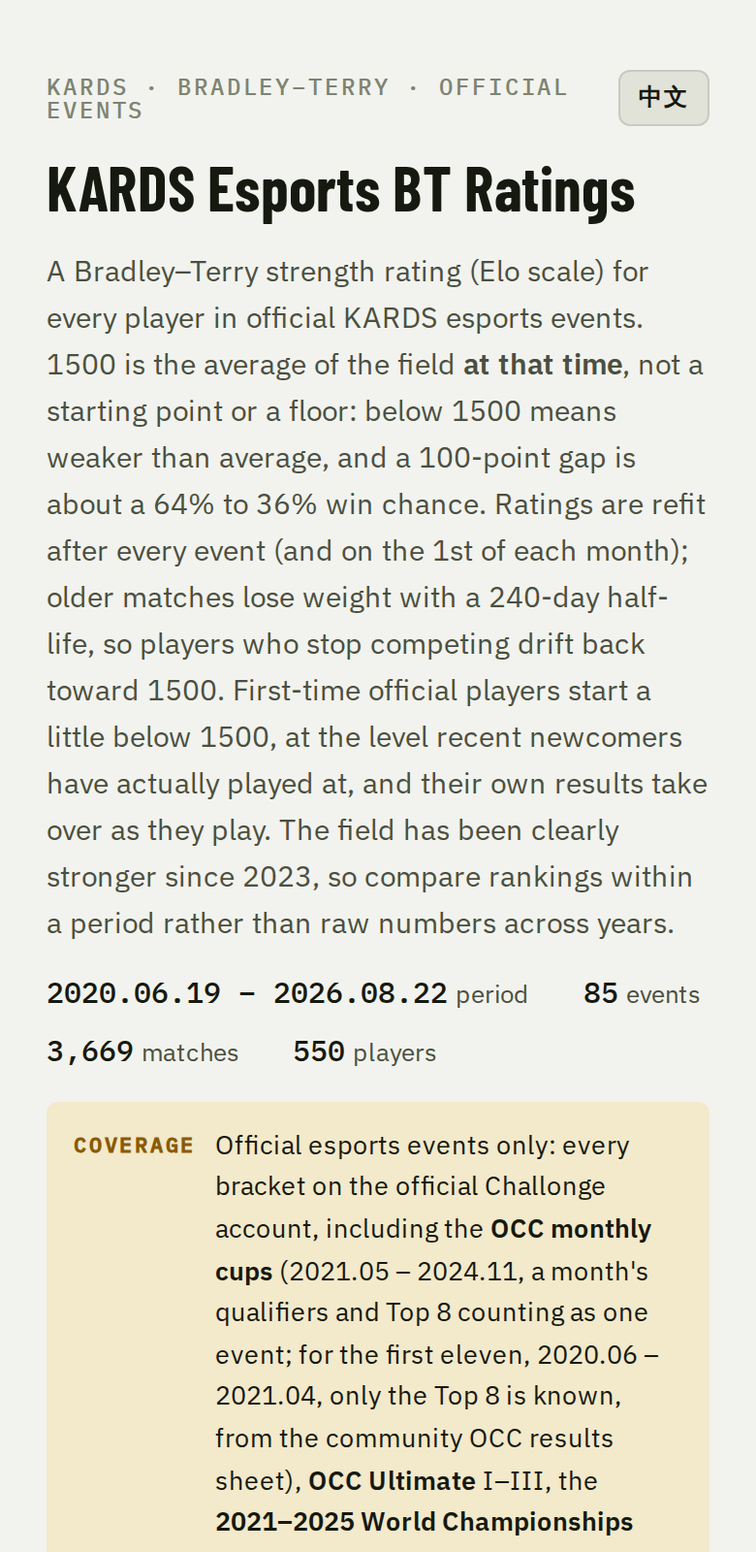
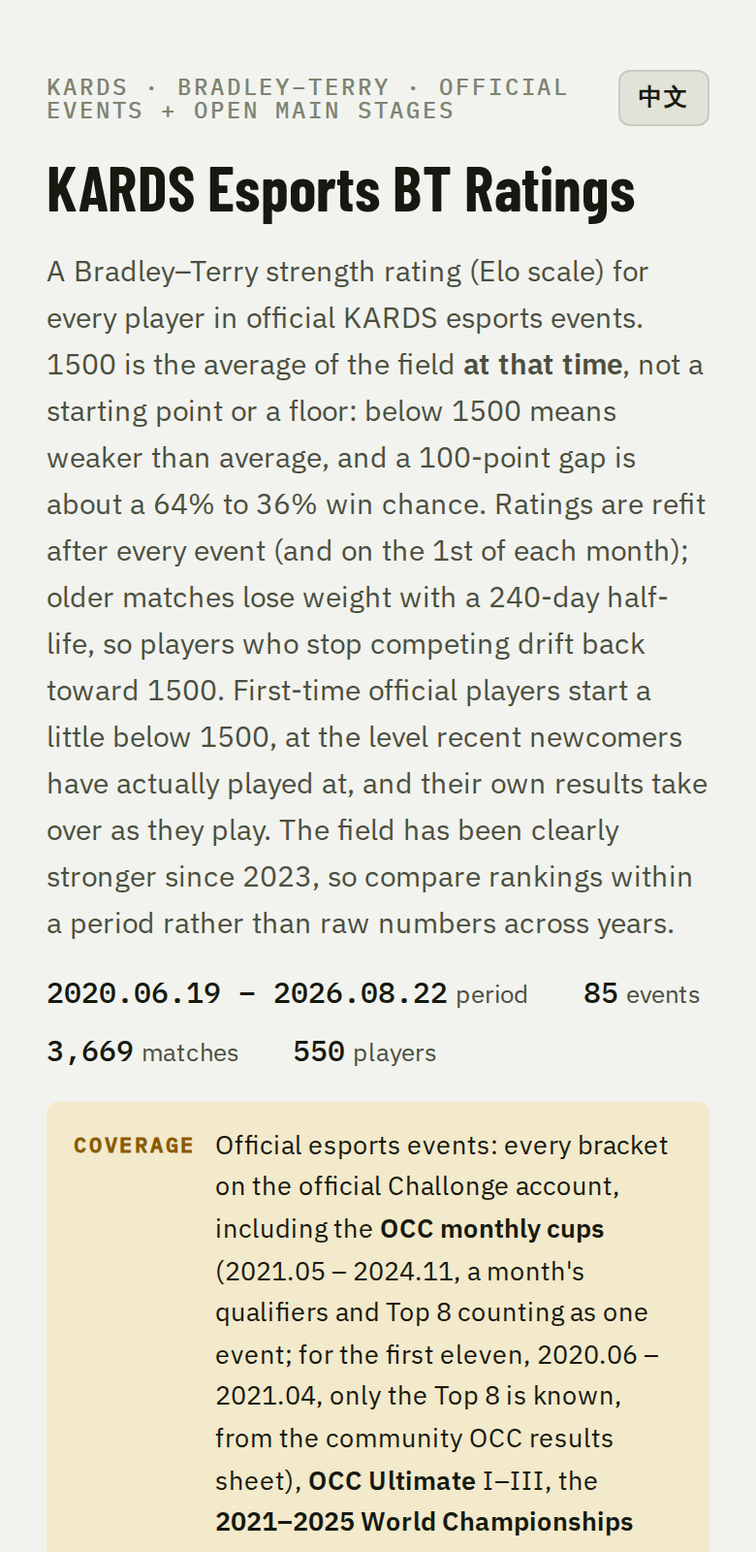
Page and README text for Open main stages and the peak-board invite shrink
Claude-Session: https://claude.ai/code/session_0148CokgNGp4Mn32DzLZFiBU

Changed region(s): [[0.2769, 0.7188, 0.8923, 0.8438], [0.3692, 0.0625, 0.5846, 0.0938], [0.2462, 0.0625, 0.3385, 0.0938]]

diff --git a/kards_bt/site/index.html b/kards_bt/site/index.html
@@ -166,8 +166,8 @@ td.vs.hot { color: var(--up); font-weight: 600; } td.vs.cold { color: var(--down
     <p class="lede" data-lang="en">A Bradley–Terry strength rating (Elo scale) for every player in official KARDS esports events. 1500 is the average of the field <b>at that time</b>, not a starting point or a floor: below 1500 means weaker than average, and a 100-point gap is about a 64% to 36% win chance. Ratings are refit after every event (and on the 1st of each month); older matches lose weight with a 240-day half-life, so players who stop competing drift back toward 1500. First-time official players start a little below 1500, at the level recent newcomers have actually played at, and their own results take over as they play. The field has been clearly stronger since 2023, so compare rankings within a period rather than raw numbers across years.</p>
     <div class="facts" id="facts"></div>
     <div class="notice"><span class="tag" data-t="scope"></span>
-      <p data-lang="zh">只计<b>官方电竞赛事</b>：Challonge 上官方账号的全部对阵表，包括<b>OCC 月赛</b>（2021.05 – 2024.11，同月的资格赛和 Top 8 算一站；2020.06 – 2021.04 的前 11 届只有 Top 8，来自社区整理的 OCC 战绩表）、<b>OCC Ultimate</b> I–III、<b>2021–2025 世界赛</b>（2021、2022 年在 start.gg，2024 年瑞士轮在 Battlefy）、<b>2025 年四个扩展赛</b>和 <b>2026 年四季赛</b>；2021–2023 世界赛前 4 名线下总决赛按官方新闻补录。<b>KARDS Open 公开赛</b>没有报名门槛、不在电竞计划内，不计入。弃权、缺席、DQ 后被录入的结果整场作废。</p>
-      <p data-lang="en">Official esports events only: every bracket on the official Challonge account, including the <b>OCC monthly cups</b> (2021.05 – 2024.11, a month's qualifiers and Top 8 counting as one event; for the first eleven, 2020.06 – 2021.04, only the Top 8 is known, from the community OCC results sheet), <b>OCC Ultimate</b> I–III, the <b>2021–2025 World Championships</b> (2021 and 2022 on start.gg, the 2024 Swiss stage on Battlefy), the <b>four 2025 expansion tournaments</b> and the <b>2026 seasonal tournaments</b>. The 2021–2023 World Championship LAN finals are entered from official news. The <b>KARDS Open</b> series has no entry bar and is outside the esports programme, so it is not counted. Forfeits, no-shows and results entered after a DQ are voided.</p>
+      <p data-lang="zh">计入<b>官方电竞赛事</b>：Challonge 上官方账号的全部对阵表，包括<b>OCC 月赛</b>（2021.05 – 2024.11，同月的资格赛和 Top 8 算一站；2020.06 – 2021.04 的前 11 届只有 Top 8，来自社区整理的 OCC 战绩表）、<b>OCC Ultimate</b> I–III、<b>2021–2025 世界赛</b>（2021、2022 年在 start.gg，2024 年瑞士轮在 Battlefy）、<b>2025 年四个扩展赛</b>和 <b>2026 年四季赛</b>；2021–2023 世界赛前 4 名线下总决赛按官方新闻补录。<b>KARDS Open 公开赛</b>（2020–2023，#1 – XVI）没有报名门槛，它的瑞士轮和资格赛不计入；但 Open 的<b>正赛阶段</b>（16 强 / 8 强 / 淘汰赛，共 214 场）是打赢了预选的选手之间的比赛，按官方赛事同样计入。弃权、缺席、DQ 后被录入的结果整场作废。</p>
+      <p data-lang="en">Official esports events: every bracket on the official Challonge account, including the <b>OCC monthly cups</b> (2021.05 – 2024.11, a month's qualifiers and Top 8 counting as one event; for the first eleven, 2020.06 – 2021.04, only the Top 8 is known, from the community OCC results sheet), <b>OCC Ultimate</b> I–III, the <b>2021–2025 World Championships</b> (2021 and 2022 on start.gg, the 2024 Swiss stage on Battlefy), the <b>four 2025 expansion tournaments</b> and the <b>2026 seasonal tournaments</b>. The 2021–2023 World Championship LAN finals are entered from official news. The <b>KARDS Open</b> series (2020–2023, #1 – XVI) has no entry bar, so its Swiss and qualifier rounds are not counted; its <b>main stages</b> (Top 16 / Top 8 / playoffs, 214 matches) are between players who came through them and count like official events. Forfeits, no-shows and results entered after a DQ are voided.</p>
     </div>
   </header>
 
@@ -238,15 +238,15 @@ td.vs.hot { color: var(--up); font-weight: 600; } td.vs.cold { color: var(--down
       <li><b>随时间变化</b>：每站比赛结束后和每月 1 日，用截至当时的全部对局重新拟合；距今 d 天的对局权重为 0.5<sup>d/240</sup>。</li>
       <li><b>先验</b>：β ~ N(0, 0.4²)，相当于每人先带一点“平均水平”的虚拟战绩，只打过两三场的人不会被冲到榜首。</li>
       <li><b>区间</b>：± 是拉普拉斯近似给出的 1 个标准误。场次越少，区间越宽。</li>
-      <li><b>参数怎么定的</b>：用每站赛前的分数预测这一站的胜负（清洗后 3,432 场），半衰期 240 天、先验 0.4 的 log loss 是 0.687（抛硬币是 0.693；预测准确率约 53%）。官方赛事的参赛者水平接近，胜负本来就难预测，分差小于 100 分的对局基本是五五开。按赛事级别加权、预选降权、按 Bo3/Bo5 和 ban 位区分赛制，都检验过，样本外预测没有变好，所以没有采用。</li>
+      <li><b>参数怎么定的</b>：用每站赛前的分数预测这一站的胜负（清洗后 3,646 场），半衰期 240 天、先验 0.4 的 log loss 是 0.685（抛硬币是 0.693；预测准确率约 54%）。官方赛事的参赛者水平接近，胜负本来就难预测，分差小于 100 分的对局基本是五五开。按赛事级别加权、预选降权、按 Bo3/Bo5 和 ban 位区分赛制，都检验过，样本外预测没有变好，所以没有采用。</li>
       <li><b>没打的比赛不算</b>：轮空、平台判负、Battlefy 只有一方签到后 10 分钟的自动判负、选手被标记 DQ 之后录入（或在 DQ 时被改写）的结果、start.gg 上只记胜负没有比分的缺席判负、管理员几秒内批量清掉的缺席选手对局，整场作废，对手的“胜场”也一起去掉。DQ 之前真打的比赛保留；瑞士轮和循环赛不按负场数判断；只要双方都在场、比分正常，录入再快也算真实对局。</li>
       <li><b>排名分</b>：榜单按 BT 分 − 1 个标准误排序。停赛后旧比赛的权重越来越小，标准误随之变大，排名分自然下降；BT 分本身仍是对实力的最佳估计。检验过“久未出赛直接扣分”：久未出赛的选手回来后反而赢得比模型预期多（停赛 120–240 天的实际胜率高出 6.8 个百分点），扣分只会让预测变差，所以只在排名上体现“不确定”，不改分数。</li>
       <li><b>新人起点</b>：第一次打官方赛的选手实际胜率约 42%，模型若按平均水平算会给到约 49%，被高估了。而且新人比平均弱多少随时代变化（2022 年约 46 分，2023–2025 年约 90 分，2026 年约 49 分）。所以每站赛前，用过去一年新人的实际表现估计这个差距，新人从这个位置起步（相当于 2 场虚拟的平局，按 240 天半衰期淡出）。2024 年后的检验里预测略有改善（log loss −0.0055），但还在误差范围内，属于有依据、待更多数据确认的修正。</li>
       <li><b>小样本和“赢家诅咒”</b>：分数几乎全来自预选的选手，到了正赛平均比预测少赢约 4 个百分点。能进正赛的人是被“预选打得好”筛出来的，其中一部分是手感和运气，进了正赛自然回落。降低预选权重检验过，修不好这一点，预测还变差，所以没有采用；更可靠的是看<b>排名分</b>，场次少的人标准误大，排名分会更保守。</li>
-      <li><b>巅峰榜</b>：当前榜只用截至当天的比赛，会“滞后”：一段很短的爆发结束时只被计入一半，巅峰也是在后来的下滑发生前评出来的。巅峰榜用事后估计，在每站比赛的日期上，用前后所有比赛（按时间距离加权，240 天半衰期）重新拟合，新人起点和天梯直邀补偿也按同样方式计入，取每人排名分最高的那一站。它适合比较“谁状态最好时最强”，不能用来预测比赛（用到了未来的结果）。</li>
+      <li><b>巅峰榜</b>：当前榜只用截至当天的比赛，会“滞后”：一段很短的爆发结束时只被计入一半，巅峰也是在后来的下滑发生前评出来的。巅峰榜用事后估计，在每站比赛的日期上，用前后所有比赛（按时间距离加权，240 天半衰期）重新拟合，新人起点和天梯直邀补偿也按同样方式计入，取每人排名分最高的那一站。巅峰榜里的直邀补偿按选手已有的真实场次递减（n0 = 20）：补偿本来是给“没有别的证据”的选手的，一年直邀十几次的老将再按每次全额计入，会让巅峰分里四成是补偿（Noein5 曾因此排到第 2，按真实比赛是第 3–4）。当前榜仍用统一补偿，两者样本外预测相同。它适合比较“谁状态最好时最强”，不能用来预测比赛（用到了未来的结果）。</li>
       <li><b>正赛胜率</b>：榜上另列每人在官方赛事正赛阶段（8 强 / 16 强 / 总决赛 / 邀请赛 / 淘汰赛）的生涯胜率，悬停看胜负场数。它只是参考，不参与排名：BT 分只看每场胜负，不区分决赛和资格赛，而“总能打进决赛”这件事在体感里的分量比模型里重。</li>
       <li><b>vs 预期</b>：模型压不住的强者怎么体现？分数这边试过放宽先验、重尾先验、按小局计分，都会让整体预测变差或者没有作用，所以不改分数，而是把证据列出来：每个人每场赛前的模型胜率加起来是“期望胜场”，和实际胜场相减就是这一列；超过 2 个标准差标 ▲（模型一直低估他）或 ▽（一直高估）。当前榜看近 24 个月，巅峰榜看生涯。</li>
-      <li><b>直邀补偿按人校准</b>：检验过三种做法（按选手已有真实场次递减、门槛模型、按直邀后 8 强表现打折）。按 8 强表现打折几乎没有作用，因为直邀选手在 8 强的整体战绩和资格赛晋级者相当；另两种对 8 强对局的预测略好（约 −0.005），整体预测不变，都在误差范围内，默认仍用统一补偿（<code>--invite-shrink</code> 可切换）。</li>
+      <li><b>直邀补偿按人校准</b>：检验过三种做法（按选手已有真实场次递减、门槛模型、按直邀后 8 强表现打折）。按 8 强表现打折几乎没有作用，因为直邀选手在 8 强的整体战绩和资格赛晋级者相当；另两种对 8 强对局的预测略好（约 −0.005），整体预测不变，都在误差范围内。当前榜保留统一补偿，巅峰榜用按证据递减（见上）。</li>
       <li><b>天梯直邀</b>：OCC 8 强里没打资格赛的直邀选手，记上当月资格赛晋级者的中位战绩（直邀和资格赛胜出一样难），按 120 天半衰期淡出。</li>
       <li><b>人工修正</b>：<code>data/aliases.csv</code> 合并同一人的不同账号，<code>data/overrides.csv</code> 把代打的结果记到实际上场的人名下，<code>data/manual_matches.csv</code> 补录只在官方新闻里公布的总决赛。</li>
       <li><b>同一人跨平台</b>：按平台账号 + 游戏内 ID 合并，可在 <code>data/aliases.csv</code> 里手动补充。</li>
@@ -260,15 +260,15 @@ td.vs.hot { color: var(--up); font-weight: 600; } td.vs.cold { color: var(--down
       <li><b>Changes over time</b>: after every event and on the 1st of each month, the model is refit on all matches so far; a match played d days earlier has weight 0.5<sup>d/240</sup>.</li>
       <li><b>Prior</b>: β ~ N(0, 0.4²), like giving everyone a few virtual "average" results, so a player with two or three wins cannot jump to the top.</li>
       <li><b>Uncertainty</b>: ± is one standard error from the Laplace approximation. Fewer matches, wider band.</li>
-      <li><b>How the settings were chosen</b>: each event is predicted from ratings computed before it started (3,432 matches after cleaning). With a 240-day half-life and prior 0.4 the log loss is 0.687 (a coin flip is 0.693; about 53% of winners predicted). Official fields are close in strength, so results are hard to predict: matches between players less than 100 points apart are close to 50/50. Weighting events by tier, down-weighting qualifiers and treating Bo3/Bo5/ban formats differently were all tested; none improved out-of-sample predictions, so neither is used.</li>
+      <li><b>How the settings were chosen</b>: each event is predicted from ratings computed before it started (3,646 matches after cleaning). With a 240-day half-life and prior 0.4 the log loss is 0.685 (a coin flip is 0.693; about 54% of winners predicted). Official fields are close in strength, so results are hard to predict: matches between players less than 100 points apart are close to 50/50. Weighting events by tier, down-weighting qualifiers and treating Bo3/Bo5/ban formats differently were all tested; none improved out-of-sample predictions, so neither is used.</li>
       <li><b>Unplayed matches do not count</b>: byes, platform forfeits, Battlefy's automatic win 10 minutes after only one player checked in, results entered after (or rewritten at) a player's DQ, start.gg results with no score (the no-show convention), and no-show losses an admin cleared in bulk within seconds are voided, and so is the opponent's "win". Real matches played before a DQ are kept; Swiss and round-robin records are never judged by loss count; and a normally scored match between two present players counts however quickly it was reported.</li>
       <li><b>Rank score</b>: the leaderboard is sorted by rating − 1 standard error. Once a player stops competing their old results lose weight, their uncertainty grows and the rank score falls; the rating itself remains the best estimate of strength. A direct penalty for inactivity was tested: players returning from a break actually win more than the model expects (6.8 points above prediction after a 120–240-day break), so a penalty would make predictions worse. Inactivity therefore shows up only as uncertainty in the ranking, not in the rating.</li>
       <li><b>Newcomers</b>: first-time official players win about 42% of matches, where an average starting point would predict about 49%. How far below average newcomers are changes with the era (about 46 points in 2022, about 90 in 2023–2025, about 49 in 2026), so before every event the gap is estimated from the past year's newcomers and debutants start there (the equivalent of two virtual draws, fading with the 240-day half-life). On post-2024 data it improves predictions slightly (log loss −0.0055), within the margin of error: a well-founded correction awaiting more data.</li>
       <li><b>Small samples and the winner's curse</b>: players whose rating comes almost entirely from qualifiers win about 4 points less than predicted once they reach a main stage. Players reach the main stage by doing well in qualifiers, partly through form and luck, so as a group they fall back. Down-weighting qualifier results was tested; it does not fix this and makes predictions worse, so it is not used. The <b>rank score</b> is the safer guide: few matches mean a wide standard error and a more cautious rank score.</li>
-      <li><b>Peak leaderboard</b>: the current board uses only results up to each date, so it lags: a short strong run is only half credited when it ends, and a peak is judged before any slump that followed. The peak board uses hindsight: at every event date the model is refit on all results before and after it (weighted by distance in time, 240-day half-life), with the newcomer anchor and ladder-invite credit included the same way, and each player's highest rank score is kept. It compares how strong players were at their best; it cannot be used for prediction, since it looks at future results.</li>
+      <li><b>Peak leaderboard</b>: the current board uses only results up to each date, so it lags: a short strong run is only half credited when it ends, and a peak is judged before any slump that followed. The peak board uses hindsight: at every event date the model is refit on all results before and after it (weighted by distance in time, 240-day half-life), with the newcomer anchor and ladder-invite credit included the same way, and each player's highest rank score is kept. On the peak board the invite credit shrinks with the player's own real evidence (n0 = 20): the credit exists for players with little else, and counting a veteran's dozen invites a year in full made 40% of one peak rating virtual (Noein5 sat 2nd by it, 3rd–4th by real matches). The current board keeps the uniform credit; the two predict equally well out of sample. It compares how strong players were at their best; it cannot be used for prediction, since it looks at future results.</li>
       <li><b>Main-stage win rate</b>: both boards also list each player's career win rate in main stages of official events (Top 8 / Top 16 / grand finals / invitationals / knockouts); hover for the record. It is a reference only and does not affect the ranking: the rating counts every match the same, a final no more than a qualifier, while "always reaching the final" weighs more in people's impressions than in the model.</li>
       <li><b>vs expected</b>: how to show players the prior keeps compressing? On the rating side a wider prior, a heavy-tailed prior and game-level scoring were all tested; each made overall prediction worse or did nothing, so the rating stays and the evidence is shown instead: summing the model's pre-match win probabilities gives each player's expected wins, and this column is actual minus expected; ▲ marks more than 2 standard errors above (the model has kept underrating them), ▽ below. The current board uses the last 24 months, the peak board the whole career.</li>
-      <li><b>Calibrating the invite credit per player</b>: three variants were tested (shrinking with the player's own real evidence, a threshold model, discounting by Top 8 results after invites). Discounting by Top 8 results does almost nothing, because invitees' Top 8 record matches qualifier advancers'; the other two predict Top 8 matches slightly better (about −0.005) with overall prediction unchanged, within the margin of error, so the uniform credit stays the default (<code>--invite-shrink</code> switches).</li>
+      <li><b>Calibrating the invite credit per player</b>: three variants were tested (shrinking with the player's own real evidence, a threshold model, discounting by Top 8 results after invites). Discounting by Top 8 results does almost nothing, because invitees' Top 8 record matches qualifier advancers'; the other two predict Top 8 matches slightly better (about −0.005) with overall prediction unchanged, within the margin of error. The current board keeps the uniform credit; the peak board uses the evidence-shrunk one (above).</li>
       <li><b>Ladder invites</b>: OCC Top 8 players invited from the in-game ladder skip the qualifier, so each is credited with that month's median qualifier-advancer record (an invite is as hard to earn as a qualifier win), fading with a 120-day half-life.</li>
       <li><b>Manual corrections</b>: <code>data/aliases.csv</code> merges one person's accounts, <code>data/overrides.csv</code> credits a substitute's results to the person who actually played, and <code>data/manual_matches.csv</code> adds grand finals published only in official news.</li>
       <li><b>One person, several platforms</b>: accounts are merged by platform account and in-game ID, with manual additions in <code>data/aliases.csv</code>.</li>
@@ -282,7 +282,7 @@ const SLOTS = 8;
 // ---------- language (中文 / English); choice kept in the URL (?lang=en) and this browser
 const T = {
   zh: {
-    title: "KARDS BT 实力榜", eyebrow: "KARDS · Bradley–Terry · 官方赛事", h1: "KARDS 赛事 BT 实力榜", scope: "数据范围",
+    title: "KARDS BT 实力榜", eyebrow: "KARDS · Bradley–Terry · 官方赛事 + 公开赛正赛", h1: "KARDS 赛事 BT 实力榜", scope: "数据范围",
     hTrend: "分数走势", hBoard: "实力榜", searchPh: "搜索选手并加入图表", searchAria: "搜索选手", btnTop: "当期前 6 名", btnClear: "清空",
     legend: "图例", chartAria: "选手 BT 分数随时间变化的折线图", asOf: "截至", minresAria: "最少对局数",
     minAll: "全部选手", min10: "至少 10 场", min20: "至少 20 场", min40: "至少 40 场",
@@ -304,7 +304,7 @@ const T = {
     thPeakWhen: "巅峰时间", thRankThen: "当时名次", thRankThenTitle: "按同样的事后估计，当时在所有已打满 10 场的选手中的名次",
   },
   en: {
-    title: "KARDS BT Ratings", eyebrow: "KARDS · Bradley–Terry · official events", h1: "KARDS Esports BT Ratings", scope: "Coverage",
+    title: "KARDS BT Ratings", eyebrow: "KARDS · Bradley–Terry · official events + Open main stages", h1: "KARDS Esports BT Ratings", scope: "Coverage",
     hTrend: "Rating history", hBoard: "Leaderboard", searchPh: "Search a player to add to the chart", searchAria: "Search players",
     btnTop: "Current top 6", btnClear: "Clear", legend: "Legend", chartAria: "Line chart of player BT ratings over time",
     asOf: "As of", minresAria: "Minimum matches",

diff --git a/kards_bt/site/template.html b/kards_bt/site/template.html
@@ -166,8 +166,8 @@ td.vs.hot { color: var(--up); font-weight: 600; } td.vs.cold { color: var(--down
     <p class="lede" data-lang="en">A Bradley–Terry strength rating (Elo scale) for every player in official KARDS esports events. 1500 is the average of the field <b>at that time</b>, not a starting point or a floor: below 1500 means weaker than average, and a 100-point gap is about a 64% to 36% win chance. Ratings are refit after every event (and on the 1st of each month); older matches lose weight with a 240-day half-life, so players who stop competing drift back toward 1500. First-time official players start a little below 1500, at the level recent newcomers have actually played at, and their own results take over as they play. The field has been clearly stronger since 2023, so compare rankings within a period rather than raw numbers across years.</p>
     <div class="facts" id="facts"></div>
     <div class="notice"><span class="tag" data-t="scope"></span>
-      <p data-lang="zh">只计<b>官方电竞赛事</b>：Challonge 上官方账号的全部对阵表，包括<b>OCC 月赛</b>（2021.05 – 2024.11，同月的资格赛和 Top 8 算一站；2020.06 – 2021.04 的前 11 届只有 Top 8，来自社区整理的 OCC 战绩表）、<b>OCC Ultimate</b> I–III、<b>2021–2025 世界赛</b>（2021、2022 年在 start.gg，2024 年瑞士轮在 Battlefy）、<b>2025 年四个扩展赛</b>和 <b>2026 年四季赛</b>；2021–2023 世界赛前 4 名线下总决赛按官方新闻补录。<b>KARDS Open 公开赛</b>没有报名门槛、不在电竞计划内，不计入。弃权、缺席、DQ 后被录入的结果整场作废。</p>
-      <p data-lang="en">Official esports events only: every bracket on the official Challonge account, including the <b>OCC monthly cups</b> (2021.05 – 2024.11, a month's qualifiers and Top 8 counting as one event; for the first eleven, 2020.06 – 2021.04, only the Top 8 is known, from the community OCC results sheet), <b>OCC Ultimate</b> I–III, the <b>2021–2025 World Championships</b> (2021 and 2022 on start.gg, the 2024 Swiss stage on Battlefy), the <b>four 2025 expansion tournaments</b> and the <b>2026 seasonal tournaments</b>. The 2021–2023 World Championship LAN finals are entered from official news. The <b>KARDS Open</b> series has no entry bar and is outside the esports programme, so it is not counted. Forfeits, no-shows and results entered after a DQ are voided.</p>
+      <p data-lang="zh">计入<b>官方电竞赛事</b>：Challonge 上官方账号的全部对阵表，包括<b>OCC 月赛</b>（2021.05 – 2024.11，同月的资格赛和 Top 8 算一站；2020.06 – 2021.04 的前 11 届只有 Top 8，来自社区整理的 OCC 战绩表）、<b>OCC Ultimate</b> I–III、<b>2021–2025 世界赛</b>（2021、2022 年在 start.gg，2024 年瑞士轮在 Battlefy）、<b>2025 年四个扩展赛</b>和 <b>2026 年四季赛</b>；2021–2023 世界赛前 4 名线下总决赛按官方新闻补录。<b>KARDS Open 公开赛</b>（2020–2023，#1 – XVI）没有报名门槛，它的瑞士轮和资格赛不计入；但 Open 的<b>正赛阶段</b>（16 强 / 8 强 / 淘汰赛，共 214 场）是打赢了预选的选手之间的比赛，按官方赛事同样计入。弃权、缺席、DQ 后被录入的结果整场作废。</p>
+      <p data-lang="en">Official esports events: every bracket on the official Challonge account, including the <b>OCC monthly cups</b> (2021.05 – 2024.11, a month's qualifiers and Top 8 counting as one event; for the first eleven, 2020.06 – 2021.04, only the Top 8 is known, from the community OCC results sheet), <b>OCC Ultimate</b> I–III, the <b>2021–2025 World Championships</b> (2021 and 2022 on start.gg, the 2024 Swiss stage on Battlefy), the <b>four 2025 expansion tournaments</b> and the <b>2026 seasonal tournaments</b>. The 2021–2023 World Championship LAN finals are entered from official news. The <b>KARDS Open</b> series (2020–2023, #1 – XVI) has no entry bar, so its Swiss and qualifier rounds are not counted; its <b>main stages</b> (Top 16 / Top 8 / playoffs, 214 matches) are between players who came through them and count like official events. Forfeits, no-shows and results entered after a DQ are voided.</p>
     </div>
   </header>
 
@@ -238,15 +238,15 @@ td.vs.hot { color: var(--up); font-weight: 600; } td.vs.cold { color: var(--down
       <li><b>随时间变化</b>：每站比赛结束后和每月 1 日，用截至当时的全部对局重新拟合；距今 d 天的对局权重为 0.5<sup>d/240</sup>。</li>
       <li><b>先验</b>：β ~ N(0, 0.4²)，相当于每人先带一点“平均水平”的虚拟战绩，只打过两三场的人不会被冲到榜首。</li>
       <li><b>区间</b>：± 是拉普拉斯近似给出的 1 个标准误。场次越少，区间越宽。</li>
-      <li><b>参数怎么定的</b>：用每站赛前的分数预测这一站的胜负（清洗后 3,432 场），半衰期 240 天、先验 0.4 的 log loss 是 0.687（抛硬币是 0.693；预测准确率约 53%）。官方赛事的参赛者水平接近，胜负本来就难预测，分差小于 100 分的对局基本是五五开。按赛事级别加权、预选降权、按 Bo3/Bo5 和 ban 位区分赛制，都检验过，样本外预测没有变好，所以没有采用。</li>
+      <li><b>参数怎么定的</b>：用每站赛前的分数预测这一站的胜负（清洗后 3,646 场），半衰期 240 天、先验 0.4 的 log loss 是 0.685（抛硬币是 0.693；预测准确率约 54%）。官方赛事的参赛者水平接近，胜负本来就难预测，分差小于 100 分的对局基本是五五开。按赛事级别加权、预选降权、按 Bo3/Bo5 和 ban 位区分赛制，都检验过，样本外预测没有变好，所以没有采用。</li>
       <li><b>没打的比赛不算</b>：轮空、平台判负、Battlefy 只有一方签到后 10 分钟的自动判负、选手被标记 DQ 之后录入（或在 DQ 时被改写）的结果、start.gg 上只记胜负没有比分的缺席判负、管理员几秒内批量清掉的缺席选手对局，整场作废，对手的“胜场”也一起去掉。DQ 之前真打的比赛保留；瑞士轮和循环赛不按负场数判断；只要双方都在场、比分正常，录入再快也算真实对局。</li>
       <li><b>排名分</b>：榜单按 BT 分 − 1 个标准误排序。停赛后旧比赛的权重越来越小，标准误随之变大，排名分自然下降；BT 分本身仍是对实力的最佳估计。检验过“久未出赛直接扣分”：久未出赛的选手回来后反而赢得比模型预期多（停赛 120–240 天的实际胜率高出 6.8 个百分点），扣分只会让预测变差，所以只在排名上体现“不确定”，不改分数。</li>
       <li><b>新人起点</b>：第一次打官方赛的选手实际胜率约 42%，模型若按平均水平算会给到约 49%，被高估了。而且新人比平均弱多少随时代变化（2022 年约 46 分，2023–2025 年约 90 分，2026 年约 49 分）。所以每站赛前，用过去一年新人的实际表现估计这个差距，新人从这个位置起步（相当于 2 场虚拟的平局，按 240 天半衰期淡出）。2024 年后的检验里预测略有改善（log loss −0.0055），但还在误差范围内，属于有依据、待更多数据确认的修正。</li>
       <li><b>小样本和“赢家诅咒”</b>：分数几乎全来自预选的选手，到了正赛平均比预测少赢约 4 个百分点。能进正赛的人是被“预选打得好”筛出来的，其中一部分是手感和运气，进了正赛自然回落。降低预选权重检验过，修不好这一点，预测还变差，所以没有采用；更可靠的是看<b>排名分</b>，场次少的人标准误大，排名分会更保守。</li>
-      <li><b>巅峰榜</b>：当前榜只用截至当天的比赛，会“滞后”：一段很短的爆发结束时只被计入一半，巅峰也是在后来的下滑发生前评出来的。巅峰榜用事后估计，在每站比赛的日期上，用前后所有比赛（按时间距离加权，240 天半衰期）重新拟合，新人起点和天梯直邀补偿也按同样方式计入，取每人排名分最高的那一站。它适合比较“谁状态最好时最强”，不能用来预测比赛（用到了未来的结果）。</li>
+      <li><b>巅峰榜</b>：当前榜只用截至当天的比赛，会“滞后”：一段很短的爆发结束时只被计入一半，巅峰也是在后来的下滑发生前评出来的。巅峰榜用事后估计，在每站比赛的日期上，用前后所有比赛（按时间距离加权，240 天半衰期）重新拟合，新人起点和天梯直邀补偿也按同样方式计入，取每人排名分最高的那一站。巅峰榜里的直邀补偿按选手已有的真实场次递减（n0 = 20）：补偿本来是给“没有别的证据”的选手的，一年直邀十几次的老将再按每次全额计入，会让巅峰分里四成是补偿（Noein5 曾因此排到第 2，按真实比赛是第 3–4）。当前榜仍用统一补偿，两者样本外预测相同。它适合比较“谁状态最好时最强”，不能用来预测比赛（用到了未来的结果）。</li>
       <li><b>正赛胜率</b>：榜上另列每人在官方赛事正赛阶段（8 强 / 16 强 / 总决赛 / 邀请赛 / 淘汰赛）的生涯胜率，悬停看胜负场数。它只是参考，不参与排名：BT 分只看每场胜负，不区分决赛和资格赛，而“总能打进决赛”这件事在体感里的分量比模型里重。</li>
       <li><b>vs 预期</b>：模型压不住的强者怎么体现？分数这边试过放宽先验、重尾先验、按小局计分，都会让整体预测变差或者没有作用，所以不改分数，而是把证据列出来：每个人每场赛前的模型胜率加起来是“期望胜场”，和实际胜场相减就是这一列；超过 2 个标准差标 ▲（模型一直低估他）或 ▽（一直高估）。当前榜看近 24 个月，巅峰榜看生涯。</li>
-      <li><b>直邀补偿按人校准</b>：检验过三种做法（按选手已有真实场次递减、门槛模型、按直邀后 8 强表现打折）。按 8 强表现打折几乎没有作用，因为直邀选手在 8 强的整体战绩和资格赛晋级者相当；另两种对 8 强对局的预测略好（约 −0.005），整体预测不变，都在误差范围内，默认仍用统一补偿（<code>--invite-shrink</code> 可切换）。</li>
+      <li><b>直邀补偿按人校准</b>：检验过三种做法（按选手已有真实场次递减、门槛模型、按直邀后 8 强表现打折）。按 8 强表现打折几乎没有作用，因为直邀选手在 8 强的整体战绩和资格赛晋级者相当；另两种对 8 强对局的预测略好（约 −0.005），整体预测不变，都在误差范围内。当前榜保留统一补偿，巅峰榜用按证据递减（见上）。</li>
       <li><b>天梯直邀</b>：OCC 8 强里没打资格赛的直邀选手，记上当月资格赛晋级者的中位战绩（直邀和资格赛胜出一样难），按 120 天半衰期淡出。</li>
       <li><b>人工修正</b>：<code>data/aliases.csv</code> 合并同一人的不同账号，<code>data/overrides.csv</code> 把代打的结果记到实际上场的人名下，<code>data/manual_matches.csv</code> 补录只在官方新闻里公布的总决赛。</li>
       <li><b>同一人跨平台</b>：按平台账号 + 游戏内 ID 合并，可在 <code>data/aliases.csv</code> 里手动补充。</li>
@@ -260,15 +260,15 @@ td.vs.hot { color: var(--up); font-weight: 600; } td.vs.cold { color: var(--down
       <li><b>Changes over time</b>: after every event and on the 1st of each month, the model is refit on all matches so far; a match played d days earlier has weight 0.5<sup>d/240</sup>.</li>
       <li><b>Prior</b>: β ~ N(0, 0.4²), like giving everyone a few virtual "average" results, so a player with two or three wins cannot jump to the top.</li>
       <li><b>Uncertainty</b>: ± is one standard error from the Laplace approximation. Fewer matches, wider band.</li>
-      <li><b>How the settings were chosen</b>: each event is predicted from ratings computed before it started (3,432 matches after cleaning). With a 240-day half-life and prior 0.4 the log loss is 0.687 (a coin flip is 0.693; about 53% of winners predicted). Official fields are close in strength, so results are hard to predict: matches between players less than 100 points apart are close to 50/50. Weighting events by tier, down-weighting qualifiers and treating Bo3/Bo5/ban formats differently were all tested; none improved out-of-sample predictions, so neither is used.</li>
+      <li><b>How the settings were chosen</b>: each event is predicted from ratings computed before it started (3,646 matches after cleaning). With a 240-day half-life and prior 0.4 the log loss is 0.685 (a coin flip is 0.693; about 54% of winners predicted). Official fields are close in strength, so results are hard to predict: matches between players less than 100 points apart are close to 50/50. Weighting events by tier, down-weighting qualifiers and treating Bo3/Bo5/ban formats differently were all tested; none improved out-of-sample predictions, so neither is used.</li>
       <li><b>Unplayed matches do not count</b>: byes, platform forfeits, Battlefy's automatic win 10 minutes after only one player checked in, results entered after (or rewritten at) a player's DQ, start.gg results with no score (the no-show convention), and no-show losses an admin cleared in bulk within seconds are voided, and so is the opponent's "win". Real matches played before a DQ are kept; Swiss and round-robin records are never judged by loss count; and a normally scored match between two present players counts however quickly it was reported.</li>
       <li><b>Rank score</b>: the leaderboard is sorted by rating − 1 standard error. Once a player stops competing their old results lose weight, their uncertainty grows and the rank score falls; the rating itself remains the best estimate of strength. A direct penalty for inactivity was tested: players returning from a break actually win more than the model expects (6.8 points above prediction after a 120–240-day break), so a penalty would make predictions worse. Inactivity therefore shows up only as uncertainty in the ranking, not in the rating.</li>
       <li><b>Newcomers</b>: first-time official players win about 42% of matches, where an average starting point would predict about 49%. How far below average newcomers are changes with the era (about 46 points in 2022, about 90 in 2023–2025, about 49 in 2026), so before every event the gap is estimated from the past year's newcomers and debutants start there (the equivalent of two virtual draws, fading with the 240-day half-life). On post-2024 data it improves predictions slightly (log loss −0.0055), within the margin of error: a well-founded correction awaiting more data.</li>
       <li><b>Small samples and the winner's curse</b>: players whose rating comes almost entirely from qualifiers win about 4 points less than predicted once they reach a main stage. Players reach the main stage by doing well in qualifiers, partly through form and luck, so as a group they fall back. Down-weighting qualifier results was tested; it does not fix this and makes predictions worse, so it is not used. The <b>rank score</b> is the safer guide: few matches mean a wide standard error and a more cautious rank score.</li>
-      <li><b>Peak leaderboard</b>: the current board uses only results up to each date, so it lags: a short strong run is only half credited when it ends, and a peak is judged before any slump that followed. The peak board uses hindsight: at every event date the model is refit on all results before and after it (weighted by distance in time, 240-day half-life), with the newcomer anchor and ladder-invite credit included the same way, and each player's highest rank score is kept. It compares how strong players were at their best; it cannot be used for prediction, since it looks at future results.</li>
+      <li><b>Peak leaderboard</b>: the current board uses only results up to each date, so it lags: a short strong run is only half credited when it ends, and a peak is judged before any slump that followed. The peak board uses hindsight: at every event date the model is refit on all results before and after it (weighted by distance in time, 240-day half-life), with the newcomer anchor and ladder-invite credit included the same way, and each player's highest rank score is kept. On the peak board the invite credit shrinks with the player's own real evidence (n0 = 20): the credit exists for players with little else, and counting a veteran's dozen invites a year in full made 40% of one peak rating virtual (Noein5 sat 2nd by it, 3rd–4th by real matches). The current board keeps the uniform credit; the two predict equally well out of sample. It compares how strong players were at their best; it cannot be used for prediction, since it looks at future results.</li>
       <li><b>Main-stage win rate</b>: both boards also list each player's career win rate in main stages of official events (Top 8 / Top 16 / grand finals / invitationals / knockouts); hover for the record. It is a reference only and does not affect the ranking: the rating counts every match the same, a final no more than a qualifier, while "always reaching the final" weighs more in people's impressions than in the model.</li>
       <li><b>vs expected</b>: how to show players the prior keeps compressing? On the rating side a wider prior, a heavy-tailed prior and game-level scoring were all tested; each made overall prediction worse or did nothing, so the rating stays and the evidence is shown instead: summing the model's pre-match win probabilities gives each player's expected wins, and this column is actual minus expected; ▲ marks more than 2 standard errors above (the model has kept underrating them), ▽ below. The current board uses the last 24 months, the peak board the whole career.</li>
-      <li><b>Calibrating the invite credit per player</b>: three variants were tested (shrinking with the player's own real evidence, a threshold model, discounting by Top 8 results after invites). Discounting by Top 8 results does almost nothing, because invitees' Top 8 record matches qualifier advancers'; the other two predict Top 8 matches slightly better (about −0.005) with overall prediction unchanged, within the margin of error, so the uniform credit stays the default (<code>--invite-shrink</code> switches).</li>
+      <li><b>Calibrating the invite credit per player</b>: three variants were tested (shrinking with the player's own real evidence, a threshold model, discounting by Top 8 results after invites). Discounting by Top 8 results does almost nothing, because invitees' Top 8 record matches qualifier advancers'; the other two predict Top 8 matches slightly better (about −0.005) with overall prediction unchanged, within the margin of error. The current board keeps the uniform credit; the peak board uses the evidence-shrunk one (above).</li>
       <li><b>Ladder invites</b>: OCC Top 8 players invited from the in-game ladder skip the qualifier, so each is credited with that month's median qualifier-advancer record (an invite is as hard to earn as a qualifier win), fading with a 120-day half-life.</li>
       <li><b>Manual corrections</b>: <code>data/aliases.csv</code> merges one person's accounts, <code>data/overrides.csv</code> credits a substitute's results to the person who actually played, and <code>data/manual_matches.csv</code> adds grand finals published only in official news.</li>
       <li><b>One person, several platforms</b>: accounts are merged by platform account and in-game ID, with manual additions in <code>data/aliases.csv</code>.</li>
@@ -282,7 +282,7 @@ const SLOTS = 8;
 // ---------- language (中文 / English); choice kept in the URL (?lang=en) and this browser
 const T = {
   zh: {
-    title: "KARDS BT 实力榜", eyebrow: "KARDS · Bradley–Terry · 官方赛事", h1: "KARDS 赛事 BT 实力榜", scope: "数据范围",
+    title: "KARDS BT 实力榜", eyebrow: "KARDS · Bradley–Terry · 官方赛事 + 公开赛正赛", h1: "KARDS 赛事 BT 实力榜", scope: "数据范围",
     hTrend: "分数走势", hBoard: "实力榜", searchPh: "搜索选手并加入图表", searchAria: "搜索选手", btnTop: "当期前 6 名", btnClear: "清空",
     legend: "图例", chartAria: "选手 BT 分数随时间变化的折线图", asOf: "截至", minresAria: "最少对局数",
     minAll: "全部选手", min10: "至少 10 场", min20: "至少 20 场", min40: "至少 40 场",
@@ -304,7 +304,7 @@ const T = {
     thPeakWhen: "巅峰时间", thRankThen: "当时名次", thRankThenTitle: "按同样的事后估计，当时在所有已打满 10 场的选手中的名次",
   },
   en: {
-    title: "KARDS BT Ratings", eyebrow: "KARDS · Bradley–Terry · official events", h1: "KARDS Esports BT Ratings", scope: "Coverage",
+    title: "KARDS BT Ratings", eyebrow: "KARDS · Bradley–Terry · official events + Open main stages", h1: "KARDS Esports BT Ratings", scope: "Coverage",
     hTrend: "Rating history", hBoard: "Leaderboard", searchPh: "Search a player to add to the chart", searchAria: "Search players",
     btnTop: "Current top 6", btnClear: "Clear", legend: "Legend", chartAria: "Line chart of player BT ratings over time",
     asOf: "As of", minresAria: "Minimum matches",

diff --git a/kards_bt/README.md b/kards_bt/README.md
@@ -21,8 +21,8 @@ python3 build_site.py          # 生成交互页面 site/index.html
 
 | 赛事 | 平台 | 状态 |
 |---|---|---|
-| KARDS Open #1 – VII、Open: Singleton、Operation: Kards（2020.05 – 2021.06，983 Media） | Battlefy | 已抓取，类别 `open`，默认不计入 |
-| KARDS Open VIII – XIV（2021.08 – 2022.11，983 Media） | start.gg | 已抓取，类别 `open`，默认不计入 |
+| KARDS Open #1 – VII、Open: Singleton、Operation: Kards（2020.05 – 2021.06，983 Media） | Battlefy | 瑞士轮/资格赛 `open` 不计入；正赛阶段 `open_main` 计入 |
+| KARDS Open VIII – XIV（2021.08 – 2022.11，983 Media） | start.gg | 瑞士轮/资格赛 `open` 不计入；正赛阶段 `open_main` 计入 |
 | KARDS 世界赛 2021、2022（约 100 人，小组循环赛 + 双败淘汰赛；未公开列出） | start.gg | ✅ 已收录，类别 `official` |
 | Weekday Skirmish、Blitz、Homebrew Brawl 等社区赛 | Battlefy / start.gg | 已抓取，类别为 `community`，默认不计入 |
 | OCC 月赛 2021.05 – 2024.11（同月的资格赛 A/B + Top 8 合并成一站；2024 年 4–8 月只有 Top 8） | Challonge | ✅ 已收录，类别 `official` |
@@ -32,12 +32,12 @@ python3 build_site.py          # 生成交互页面 site/index.html
 | 2021–2023 世界赛前 4 名线下总决赛（18 场） | 官方新闻 | ✅ 人工补录（`data/manual_matches.csv`） |
 | 2025 年 4 个扩展赛（Blood & Iron、United Front、Naval Warfare、Air Supremacy，各含 Top 8） | Challonge | ✅ 已收录，类别 `official` |
 | 2026 年冬、春、夏、秋季赛（各含 Top 8） | Challonge | ✅ 已收录，类别 `official` |
-| KARDS Open XV、XVI（2023） | Challonge | 已抓取，类别 `open`，默认不计入 |
+| KARDS Open XV、XVI（2023） | Challonge | 瑞士轮 `open` 不计入；正赛阶段 `open_main` 计入 |
 | Pauper II | Challonge | 已抓取，类别为 `community`，默认不计入 |
 
 `data/challonge_events.csv` 是 kards_esports 账号下的全部 139 个 Challonge 对阵表。
 
-默认只用官方赛事（`category=official`）：70 站、3455 场计分对局（含 18 场人工补录的总决赛）。
+默认计入官方赛事（`official`）和 Open 的正赛阶段（`open_main`，`normalize.py` 按阶段名把 Open 的 16 强 / 8 强 / 淘汰赛单独归类，共 214 场）：85 站、3669 场计分对局（含 18 场人工补录的总决赛）。Open 正赛是打赢预选的选手之间的比赛，加入后样本外预测不变、当前榜不变，2021–22 年老将的巅峰排序更合理（`open16_exp.py`）。
 KARDS Open 没有报名门槛、不在电竞计划内，新人和弱选手多，单独作为噪音来源检验过（`open_exp.py`，结果在 `data/open_exp_results.txt`）：
 把 Open 降权到 0.5 对官方对局的预测最好，完全去掉与不降权差不多；按项目决定完全去掉，换来只反映官方赛事的平滑走势，代价是 2021 年 5 月之前没有分数。
 `python3 bt.py --categories open,open_special,official --open-weight 0.5` 可以加回 Open。
@@ -69,7 +69,7 @@ KARDS Open 没有报名门槛、不在电竞计划内，新人和弱选手多，
 - BT 分 = 1500 + β × 400 / ln 10
 
 半衰期和先验由 `evaluate.py` 挑出：用每站赛前的分数预测该站胜负，
-只用官方赛事时，3432 场样本外对局上 log loss 0.687（抛硬币为 0.693），准确率约 53%：官方赛事选手水平接近，本来就难预测。
+3646 场样本外对局上 log loss 0.685（抛硬币为 0.693），准确率约 54%：官方赛事选手水平接近，本来就难预测。
 半衰期 240 天与 365 天相同（0.6907），120 天更差（0.6921）；先验 0.4–0.6 都比 0.8 好（0.687 vs 0.691），取 0.4。
 （含 Open 数据时为 0.674 / 58%，主要因为 Open 里强弱悬殊的对局容易猜。）赛事分级加权已检验：数据不支持（越重要的比赛结果反而越接近五五开），不采纳。
 
@@ -78,7 +78,8 @@ KARDS Open 没有报名门槛、不在电竞计划内，新人和弱选手多，
 - **新人从固定低于平均的位置起步**（`newcomer_exp.py`）：2024 年前选出的固定修正放到 2024 年后变差（+0.004），因为新人水平随时代变化；改成按时代自适应后见上面"新人起点"
 - **预选降权**（`stage_exp.py`）：预选 / 瑞士轮 / 小组赛按 0.75、0.5、0.25 计，2024 年后都略变差；分数几乎全来自预选的选手在正赛被高估约 4 个百分点（赢家诅咒），降权修不好
 - **直邀补偿按人校准**（`invite_exp.py`）：V1 按选手已有真实场次递减、V3 门槛模型、V4 按直邀后 8 强战绩打折。V4 几乎无效（直邀选手的 8 强战绩与资格赛晋级者相当，打折系数≈1）；V1/V3 对 8 强对局略好（HOLDOUT 77 场 −0.005 左右，V3 a=4 刚好显著），整体不变，DEV 略差，默认不采用。`bt.py --invite-shrink 20` / `peaks.py --invite-shrink 20` 可切到 V1，巅峰榜上钟离梓 #3、Noein5 #5、Bezio #9、dandelion #11（统一补偿下为 #4 / #2 / #11 / #14）
-- 结果文件：`data/decay_exp_results.txt`、`data/newcomer_exp_results.txt`、`data/invite_exp_results.txt`
+- **只加 Open 正赛**（`open16_exp.py`）：214 场，预测不变，当前榜不变，巅峰榜钟离梓 #4→#2、Noein5 #2→#3；已采用
+- 结果文件：`data/decay_exp_results.txt`、`data/newcomer_exp_results.txt`、`data/invite_exp_results.txt`、`data/open16_exp_results.txt`
 
 `bt.py` 每个 CPU 核算一段快照，并从上一站的解出发继续拟合，全量重算约 3 秒。
 
@@ -96,7 +97,7 @@ KARDS Open 没有报名门槛、不在电竞计划内，新人和弱选手多，
 - `data/match_timeline.csv`（`python3 timeline.py` 生成，不到 1 秒）：原始数据里每一场对局的赛制、轮次、DQ 标记、比分、开放/进行/完成时间、用时与同轮中位数、批量录入数量、各自上一场的间隔。用来判断一场结果是不是真打的。注意 Challonge 的 `inactive` 只表示已结束比赛，不代表 DQ
   Challonge 名字里的 `#1234` 和结尾的括号备注（`Jking7 (CA)`、`老虎不发猫 (Tiger)`）会自动去掉再合并；括号里的昵称不参与合并
 - `data/ratings_timeline.csv` 每站之后（`event` 为空的行是月初快照）每位选手的分数、标准误、累计场次
-- `data/peaks.csv`（`peaks.py`）：巅峰榜。每站日期上用前后所有比赛（|d| 天前后的权重 0.5^(|d|/240)）重新拟合，新人锚点和直邀补偿同样按前后距离衰减计入，取每人排名分（BT − 1 标准误）最高的一站；只计当时已满 10 场的选手。当前榜只用过去的比赛、会滞后，巅峰榜用事后信息，只用于比较巅峰，不用于预测
+- `data/peaks.csv`（`peaks.py`）：巅峰榜。每站日期上用前后所有比赛（|d| 天前后的权重 0.5^(|d|/240)）重新拟合，新人锚点和直邀补偿同样按前后距离衰减计入，取每人排名分（BT − 1 标准误）最高的一站；只计当时已满 10 场的选手。巅峰榜默认 `--invite-shrink 20`（直邀补偿按真实场次递减，见 `invite_exp.py` 的 V1）：一年十几次直邀的老将否则四成巅峰分来自补偿；当前榜（`bt.py`）保留统一补偿，两者样本外预测相同。当前榜只用过去的比赛、会滞后，巅峰榜用事后信息，只用于比较巅峰，不用于预测
 - `data/placements.csv` 每人每站的最终名次：Challonge 用官方 final_rank，其他淘汰赛按出局轮次推算（同轮出局并列，如“第 5–8 名”），没打进淘汰赛的写阶段战绩（如“瑞士轮 4-2”）
 
 ## 补上官方赛事
